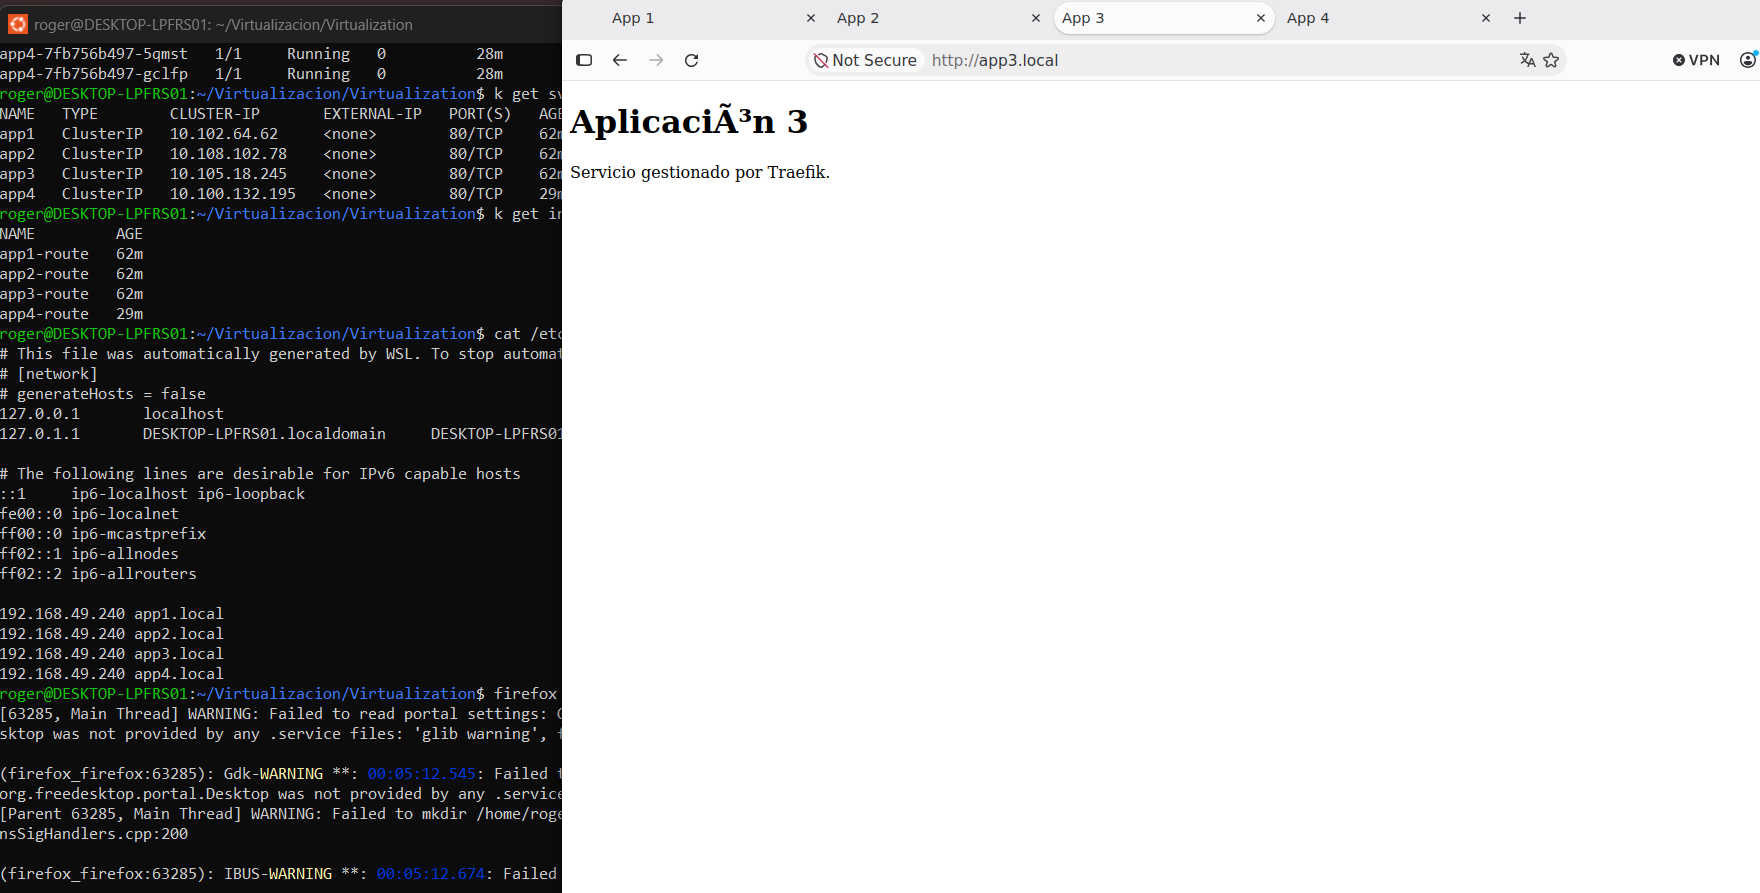
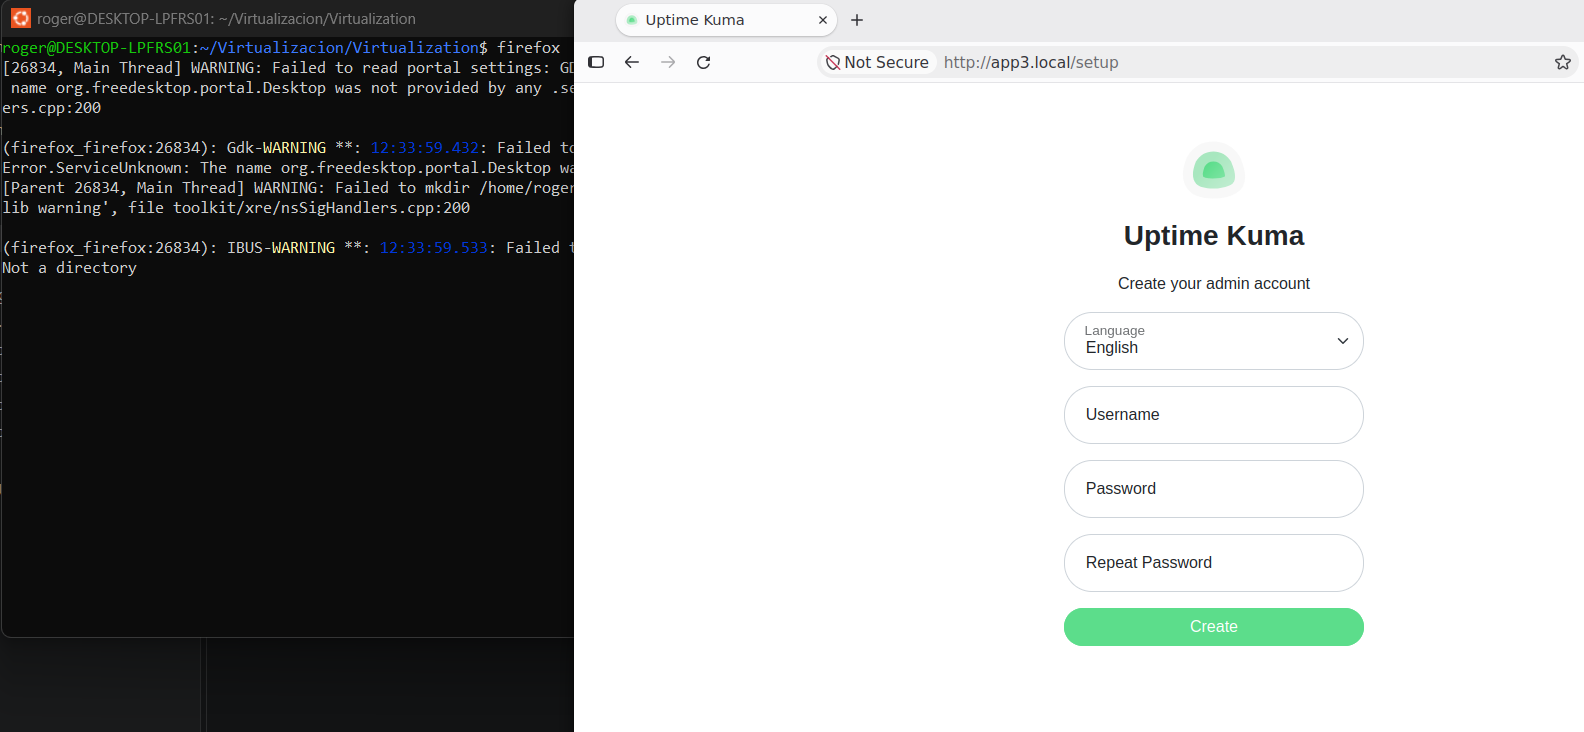
feat(kubernetes): update applications and namespace

diff --git a/README.md b/README.md
@@ -5,7 +5,7 @@
 
 Configuración de un clúster local con **Minikube**, **MetalLB** y **Traefik** para publicar cuatro aplicaciones web mediante diferentes dominios.
 
-* **Namespace aplicaciones:** `parcial-rm`
+* **Namespace aplicaciones:** `parcial-rlmr`
 * **Namespace Traefik:** `traefik`
 * **Namespace MetalLB:** `metallb-system`
 * **IP de Traefik:** `192.168.49.240`
@@ -42,9 +42,25 @@ MetalLB asignó la IP:
 
 ---
 
-## 3. Aplicaciones
+## 3. Namespaces
 
-Se crearon cuatro aplicaciones web con Nginx dentro del namespace `parcial-rm`.
+![NS](docs/namespaces.png)
+
+---
+
+## 4. Pods y Servicios
+
+### Pods
+![Pods](docs/podsapps.png)
+
+### Services
+![SVC](docs/4svc.png)
+
+---
+
+## 5. Aplicaciones
+
+Se crearon cuatro aplicaciones web con Nginx dentro del namespace `parcial-rlmr`.
 
 Cada aplicación cuenta con:
 
@@ -64,7 +80,7 @@ Los `Deployment` y sus respectivos `ConfigMap` se encuentran definidos en los ar
 
 ---
 
-## 4. IngressRoutes
+## 6. IngressRoutes
 
 Se configuraron cuatro `IngressRoute` para que Traefik dirija cada dominio hacia su Service correspondiente.
 
@@ -72,7 +88,7 @@ Se configuraron cuatro `IngressRoute` para que Traefik dirija cada dominio hacia
 
 ---
 
-## 5. DNS local
+## 7. DNS local
 
 Se agregaron los dominios al archivo `/etc/hosts`, todos apuntando a la IP de Traefik:
 
@@ -87,7 +103,7 @@ Se agregaron los dominios al archivo `/etc/hosts`, todos apuntando a la IP de Tr
 
 ---
 
-## 6. Configuración de red en WSL
+## 8. Configuración de red en WSL
 
 Debido a que el entorno utiliza **WSL2** y Minikube con Docker, fue necesario agregar una ruta hacia la IP asignada por MetalLB para poder acceder desde WSL:
 
@@ -99,7 +115,7 @@ La ruta permite que las solicitudes desde WSL lleguen a la IP `192.168.49.240` a
 
 ---
 
-## 7. Navegador en WSL
+## 9. Navegador en WSL
 
 Para realizar las pruebas de acceso desde el mismo entorno WSL se instaló **Firefox**:
 
@@ -110,19 +126,19 @@ sudo apt install firefox
 
 Posteriormente se verificó el acceso a las cuatro aplicaciones mediante sus respectivos dominios.
 
-### App 1
+### App 1 - NGINX
 
 ![App 1](docs/navegadorapp1.png)
 
-### App 2
+### App 2 - NGINX
 
 ![App 2](docs/navegadorapp2.png)
 
-### App 3
+### App 3 - Uptime Kuma
 
 ![App 3](docs/navegadorapp3.png)
 
-### App 4
+### App 4 - Whoami
 
 ![App 4](docs/navegadorapp4.png)
 
